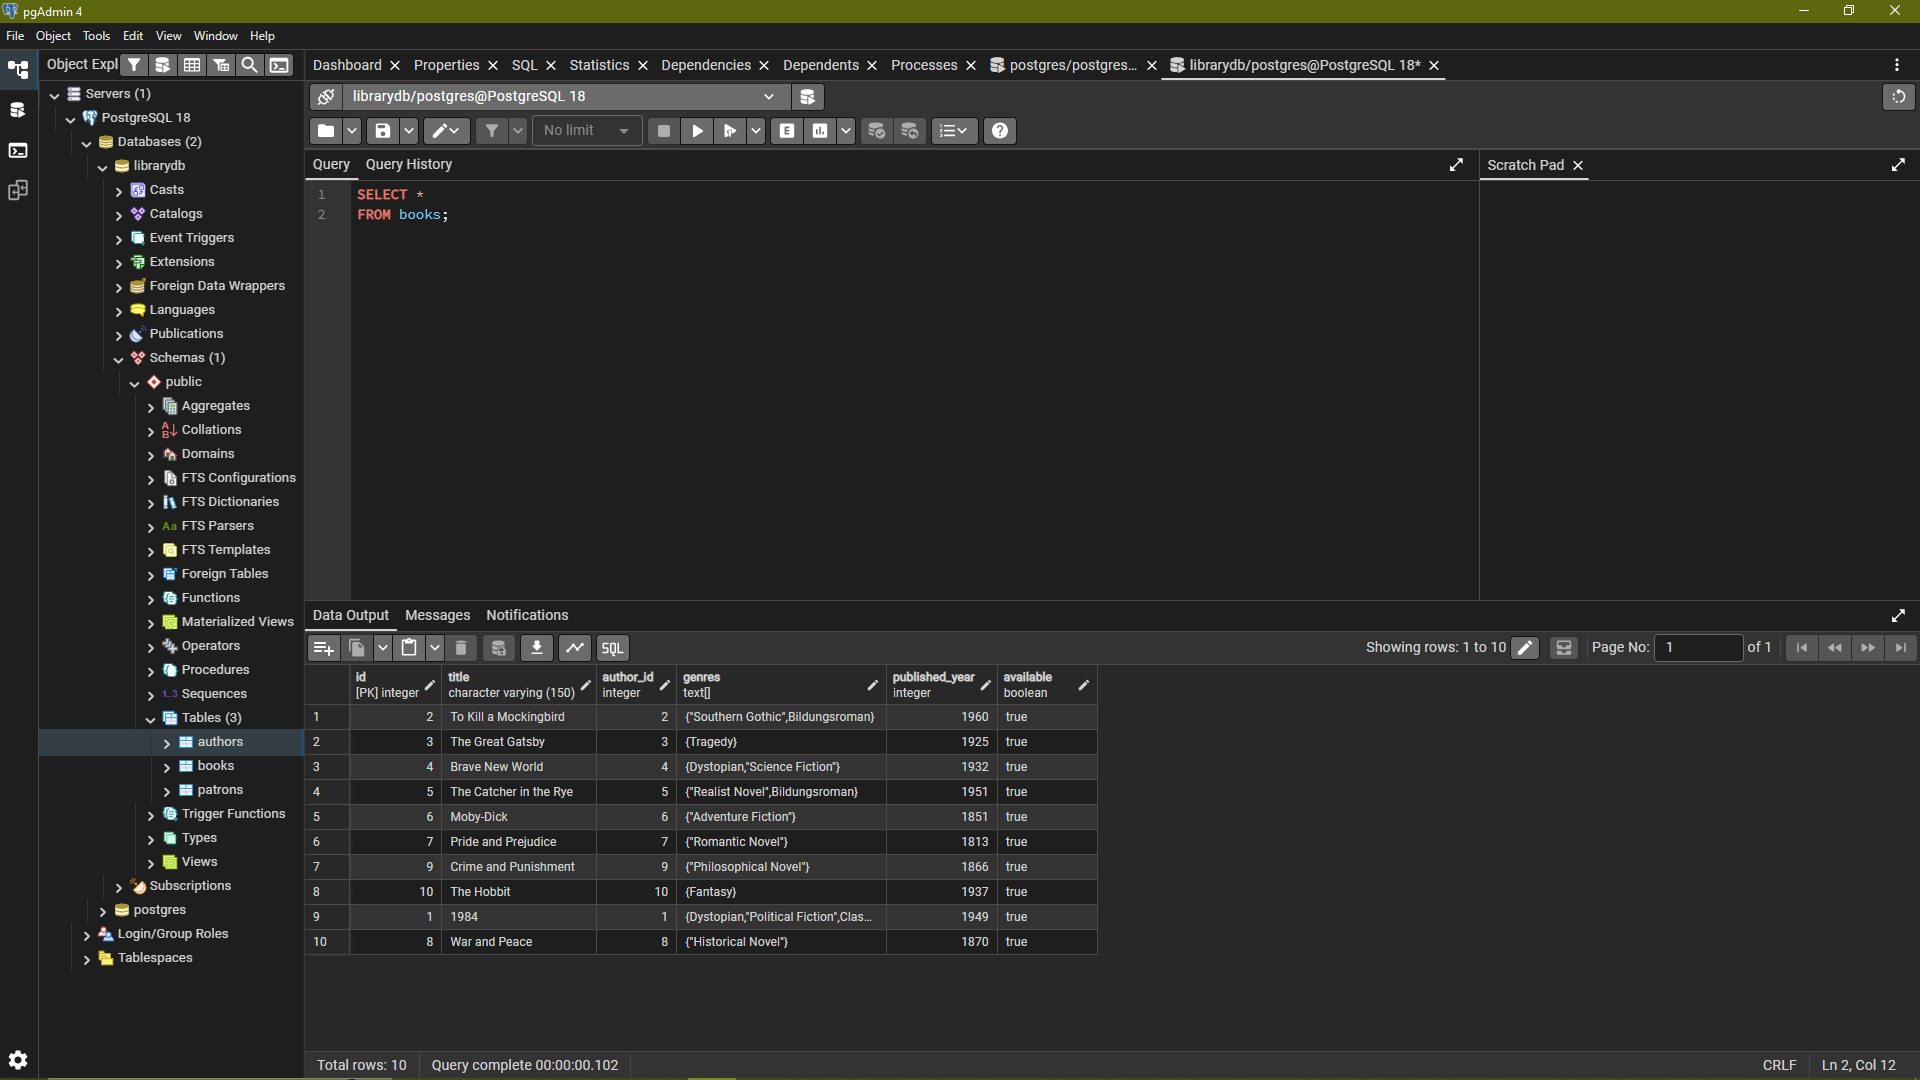
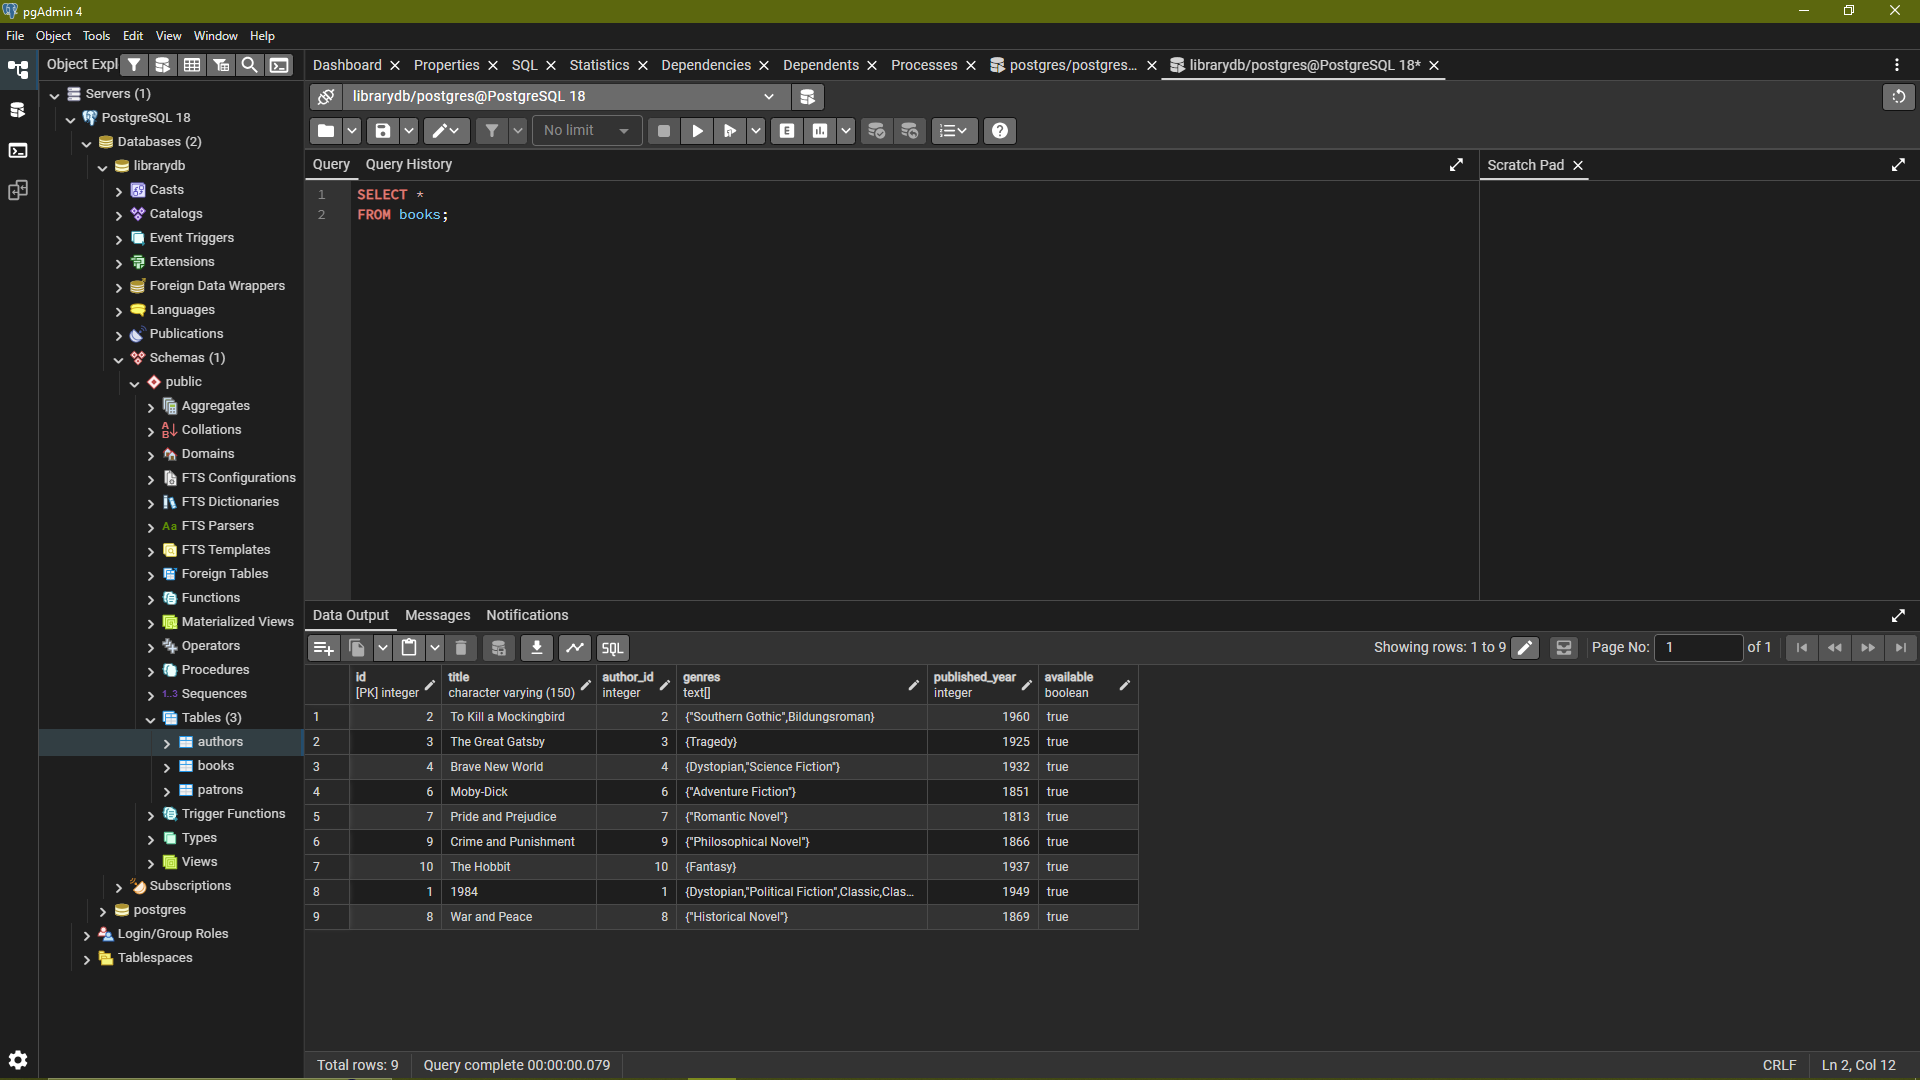
implementing changes on README for better displaying and added images at the necessary places

diff --git a/README.md b/README.md
@@ -111,43 +111,43 @@ git clone https://github.com/surprise2024-cpu/library-management-system.git
 
 ### Sample Data
 
-Authors:
+#### Authors:
 
 ![author samples](/sql/assets/author-sample-data.png)
 
-Books:
+#### Books:
 
 ![book samples](/sql/assets/books-sample-data.png)
 
-Patrons:
+#### Patrons:
 
 ![patrons](/sql/assets/patrons-sample-data.png)
 
 ### Read Query
 
-Getting all books:
+#### Getting all books:
 
 ![all books](/sql/assets/all-books.png)
 
-Getting book by title:
+#### Getting book by title:
 
 ![books by title](/sql/assets/get-book-by-title.png)
 
-Get all books by specific author:
+#### Get all books by specific author:
 
 ![books by author](/sql/assets/get-books-by-author.png)
 
-Get all available books:
+#### Get all available books:
 
 ![avalilable books](/sql/assets/get-all-available-books.png)
 
 ### Update Query
 
-Mark a book as borrowed:
+#### Mark a book as borrowed:
 
 ![updating availability](/sql/assets/update-book-availability.png)
 
-Add a new genre to a book:
+#### Add a new genre to a book:
 
 `Before:`
 
@@ -157,7 +157,7 @@ Add a new genre to a book:
 
 ![adding new genre](/sql/assets/after-adding-genre.png)
 
-Add a borrowed book to a patron:
+#### Add a borrowed book to a patron:
 
 `Before:` 
 
@@ -169,39 +169,72 @@ Add a borrowed book to a patron:
 
 ### Delete Query
 
-Deleting an author before deleting their book(s):
+#### Deleting an author before deleting their book(s):
 
-`Before`
+`Before;`
 
 ![Before deleting](/sql/assets/all-authors.png)
 
-`Processing`
+`Processing:`
 
 ![During deletion](/sql/assets/author-with-book.png)
 
-`After`
+`After;`
 
 ![After deleting](/sql/assets/after-author-deletion.png)
 
-Deleting a book:
+#### Deleting a book:
 
-`Before`
+`Before:`
 
 ![Before book deletion](/sql/assets/all-books.png)
 
-`Processing`
+`Processing:`
 
 ![Before book deletion](/sql/assets/book-deletion.png)
 
-`After`
+`After:`
 
 ![deleting a book](/sql/assets/after-deletion.png)
 
 ### Advanced Queries
 
-![](/sql/assets/all-books.png)
+#### Find books published after 1950:
+
+![books published after 1950](/sql/assets/find-books-by-published-year.png)
+
+#### Find all American authors:
+
+![all American authors](/sql/assets/find-authors-by-nationality.png)
+
+#### Set all books as available:
+
+![all books available](/sql/assets/update-book-availability.png)
+
+#### Find all available books after 1950:
+
+![all available books after 1950](/sql/assets/find-available-books-by-year.png)
+
+#### Find authors whose names contain "George":
+
+![authors whose names contain "George"](/sql/assets/find-author-whose-name-contains-something.png)
+
+#### Increment published year 1869 by 1:
+
+`Before:`
+
+![Before increment](/sql/assets/all-books.png)
+
+`Processing:`
+
+![During increment](/sql/assets/increment-processing.png)
+
+
+`After:`
+
+![After increment](/sql/assets/after-increment.png)
 
 ## Author
 
-Suprise Nkosi
+`Suprise Nkosi`
 
